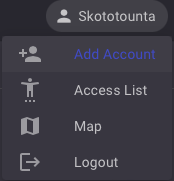
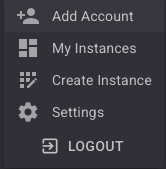
Refactor code structure for improved readability and maintainability

diff --git a/docs/Module/admin.md b/docs/Module/admin.md
@@ -1,11 +1,256 @@
 ---
 id: admin
-title: Admin
+title: Instance
 sidebar_position: 6
 ---
 
-:::caution Work in progress
-This page is under construction. Check back soon for full documentation.
+## Overview
 
-For questions or suggestions, open an issue on the [GitHub repository](https://github.com/pfh59/eve-whmapper-docs).
+An **instance** is your isolated WHMapper environment. It groups maps, administrators, and access rules under a single owner (a character, corporation, or alliance). Every user who wants to use WHMapper must belong to at least one instance — either by creating their own or by being granted access to an existing one.
+
+---
+
+## No Access
+
+When you log in for the first time and your character, corporation, or alliance has not yet been granted access to any instance, WHMapper shows the following screen:
+
+![No access screen — you don't belong to any instance yet](../assets/img/instance/no_access.png)
+
+From here you can either:
+
+- **Create an instance** — become the administrator of your own environment.
+- **Ask an instance administrator** to grant you access.
+
+---
+
+## Creating an Instance
+
+Click **CREATE AN INSTANCE** to open the registration dialog.
+
+![Instance registration form](../assets/img/instance/create_instance_form.png)
+
+Fill in the fields:
+
+| Field | Required | Description |
+|---|---|---|
+| **Instance Name** | Yes | A friendly name (e.g. *My Corp Mapper*). |
+| **Description** | No | An optional description of the instance. |
+| **Instance Access Type** | Yes | Defines who owns the instance — see below. |
+
+### Instance Access Type
+
+The access type determines the owner entity of the instance. The dropdown lists all entities linked to your authenticated character:
+
+![Access type dropdown showing Personal and Corporation options](../assets/img/instance/create_instance_access_type.png)
+
+| Option | Meaning |
+|---|---|
+| **Personal (Just me)** | The instance is owned by your character. |
+| **Corporation** | The instance is owned by your corporation. |
+| **Alliance** | The instance is owned by your alliance. |
+
+Once the form is valid, click **CREATE INSTANCE**. You become the administrator of the new instance.
+
+:::info What you get as creator
+- Your own isolated mapping environment
+- Full admin control over maps and access
+- Ability to create and manage multiple maps
+- Per-map access control to restrict who can see each map
+- Ability to add other administrators
+- Control over who can access your instance
 :::
+
+---
+
+## After Creation — No Map Available
+
+Immediately after creating an instance, WHMapper has no map to display yet. You will see:
+
+![Mapper showing "No map available" without error](../assets/img/instance/no_map.png)
+
+This is expected — you need to add at least one map to your instance before the mapper becomes usable. See [Adding a Map](#adding-a-map) below.
+
+---
+
+## My Instances
+
+Access your instances at any time via the user menu:
+
+![User menu with My Instances, Create Instance, Settings, and Logout options](../assets/img/instance/menu.png)
+
+Click **My Instances** to open the instances panel, which lists every instance you are associated with:
+
+![My Instances panel listing MyInstance with 0 Maps and 1 Admin](../assets/img/instance/my_instances.png)
+
+Each entry shows:
+- The instance name and owner character
+- The description
+- The number of maps and administrators
+- A **MANAGE** link (visible only to administrators)
+
+To create another instance from this panel, click **+ CREATE NEW INSTANCE**.
+
+---
+
+## Instance Administration
+
+Click **MANAGE** on any instance you administer to open the **Instance Administration** panel:
+
+![Instance Administration panel — empty Maps section, Skotounta as Owner admin, and one Access Control entry](../assets/img/instance/instance_admin_empty.png)
+
+The panel has three sections:
+
+| Section | Description |
+|---|---|
+| **Maps** | Maps belonging to this instance. |
+| **Admins** | Users with administrator rights on this instance. |
+| **Access Control** | Characters, corporations, or alliances granted access. |
+
+At the top you can **EDIT** the instance name/description or **DELETE** the instance entirely.
+
+:::warning
+Only administrators of an instance can see the **MANAGE** option and access this panel.
+:::
+
+---
+
+## Managing Instance Access
+
+The **Access Control** section defines who can access the instance. By default, only the creator's character is listed.
+
+To grant access to a new entity, click **+ ADD ACCESS**:
+
+![Add Access dialog — search field with "les deux mous" typed, showing Corporation result](../assets/img/instance/add_access.png)
+
+Search by character name, corporation name, or alliance name. Select the result and click **GRANT ACCESS**.
+
+A confirmation toast appears:
+
+![Success toasts: "Granted access to Les deux mousquetaires" and "You have been granted access to an instance — new maps are now available"](../assets/img/instance/access_granted.png)
+
+:::tip
+When access is granted to a corporation or alliance, all members of that entity gain access to the instance. Individual character entries can be used for finer-grained control.
+:::
+
+To revoke access, click the delete icon on the corresponding row.
+
+---
+
+## Adding Administrators
+
+In the **Admins** section, click **+ ADD** to promote another character to administrator. Administrators can manage maps, access control, and instance settings.
+
+The creator of the instance always appears as **Owner** and cannot be removed from the admin list.
+
+---
+
+## Editing an Instance
+
+Click **EDIT** in the Instance Administration panel to modify the instance name or description:
+
+![Edit Instance dialog with Name and Description fields](../assets/img/instance/edit_instance.png)
+
+Click **SAVE** to apply the changes or **CANCEL** to discard them.
+
+---
+
+## Adding a Map
+
+In the **Maps** section, click **+ ADD**. The *Add Map* dialog appears:
+
+![Add Map dialog — empty name field, CREATE button disabled](../assets/img/instance/add_map_empty.png)
+
+Type a name for the map. The **CREATE** button becomes active once a name is entered:
+
+![Add Map dialog — "My Map" entered, CREATE button enabled](../assets/img/instance/add_map_ready.png)
+
+Click **CREATE**. The map is added to the instance:
+
+![Instance Administration panel — Maps section now shows "My Map" with edit and delete icons](../assets/img/instance/instance_admin_with_map.png)
+
+You can repeat this process to add as many maps as needed. To add a second map, click **+ ADD** again, enter the new name, and click **CREATE**:
+
+![Add Map dialog — "My MAP2" entered, CREATE button enabled](../assets/img/instance/add_map_second.png)
+
+---
+
+## Multi-Map Management
+
+An instance can contain multiple maps. All users with access to the instance can view all maps by default.
+
+Each map appears as its own tab in the mapper interface, allowing users to switch between maps without leaving the application:
+
+![Mapper tab bar showing MY MAP and MY MAP2 tabs](../assets/img/instance/map_tabs.png)
+
+The **Maps** section of the Instance Administration panel displays the total number of maps and lists each one with its action buttons:
+
+![Maps section showing Maps (2) — My Map and My MAP2 with padlock badge](../assets/img/instance/maps_list_multiple.png)
+
+A padlock badge on a map entry indicates that access restrictions have been applied to that map (the number shows how many access entries are configured).
+
+:::warning Tracker only works on the active map
+The **tracking system** (automatic chain update, signature sync) operates exclusively on the **active map** — the tab currently selected in the mapper. Switching to a different tab changes which map receives live updates. Make sure all scouts and mappers are on the same active map.
+:::
+
+---
+
+## Map Access Control
+
+Each map can have its own access restrictions, independent of the instance-level access control. By default, every user with access to the instance can view every map.
+
+### Map Action Buttons
+
+In the **Maps** section of the Instance Administration panel, each map row shows two icons on the right:
+
+![Map row showing the blue shield (Manage Access) and red trash (Delete Map) icons](../assets/img/instance/map_row_icons.png)
+
+- **Blue shield icon** — opens the Map Access Control dialog for that map.
+- **Red trash icon** — deletes the map.
+
+Hovering over each icon shows its tooltip:
+
+![Map row with red trash icon hovered — Delete Map tooltip visible](../assets/img/instance/map_delete_tooltip.png)
+
+![Map row with blue shield icon hovered — Manage Access tooltip visible](../assets/img/instance/map_manage_access_tooltip.png)
+
+### Default State — No Restrictions
+
+When no access entries have been added, the dialog shows a blue **No restrictions** banner:
+
+![Map Access Control dialog — No restrictions banner, with Skototounta and Les deux mousquetaires listed as candidates to add](../assets/img/instance/map_access_no_restrictions.png)
+
+> **No restrictions:** All users with instance access can view this map. Add an access entry below to restrict who can access this map.
+
+The lower section lists all entities that currently have instance-level access. Click **+ ADD** next to any entry to restrict the map to that entity.
+
+### Restricted State
+
+Once at least one access entry is added, the dialog switches to a yellow **Restricted access** banner:
+
+![Map Access Control dialog — Restricted access banner, Skototounta listed in Current Access Entries with delete action](../assets/img/instance/map_access_restricted.png)
+
+> **Restricted access:** Only the entities listed below can access this map. Instance administrators always have access.
+
+| Column | Description |
+|---|---|
+| **Type** | Whether the entry is a Character, Corporation, or Alliance. |
+| **Entity Name** | The name of the entity granted access. |
+| **Actions** | Red trash icon to remove the entry. |
+
+To remove all restrictions at once and make the map public to the instance again, click the **REMOVE ALL RESTRICTIONS (MAKE PUBLIC TO INSTANCE)** button.
+
+:::info Instance admins always have access
+Regardless of per-map restrictions, **instance administrators** always retain access to all maps in their instance.
+:::
+
+---
+
+## Multi-Instance Access
+
+A user can belong to multiple instances simultaneously — either as a direct member, through their corporation, or through their alliance. In that case, WHMapper aggregates all maps from all accessible instances and displays them as tabs in a single view.
+
+The maps visible to you depend on two levels of rules:
+1. **Instance-level access** — you must be granted access to the instance.
+2. **Per-map access** — if a map has restrictions configured, only the listed entities can open it, even if they have instance access.
+
+Instance administrators always retain full access to all maps in their own instance, regardless of per-map restrictions.

diff --git a/docs/Module/authenticate.md b/docs/Module/authenticate.md
@@ -4,60 +4,48 @@ title: Authenticate
 sidebar_position: 1
 ---
 
-EVE Wormhole Mapper uses your EVE Online credentials via CCP's Single Sign-On (SSO). This page explains how to authenticate and manage characters within the mapper.
+EVE Wormhole Mapper authenticates using your EVE Online account via CCP's Single Sign-On (SSO). Your password is never stored — only a secure CCP-issued token is used.
 
-## Logging into EVE Wormhole Mapper
+## Login Flow
 
-1. **Access the Account Settings**
-
-   Select the **ACCOUNT** button on the main interface to initiate the authentication flow.
+1. **Open Account Settings** — click the **ACCOUNT** button on the main interface.
 
    ![Main interface showing the ACCOUNT button](../assets/img/authenticate/account_btn.png)
 
-2. **Initiate Login**
-
-   Click the **Login** button. You are redirected to the EVE Online SSO login page.
+2. **Initiate Login** — click **Login** to be redirected to the CCP SSO page.
 
    ![Login button to initiate SSO authentication](../assets/img/authenticate/login_btn.png)
 
-3. **Enter CCP Credentials**
-
-   Input your CCP credentials. Your password is never stored by the application — authentication uses CCP's secure token-based system.
+3. **Enter CCP Credentials** — input your CCP username and password.
 
    ![CCP SSO credential entry page](../assets/img/authenticate/ccp_sso.png)
 
-4. **Select Your Character**
-
-   Choose the character you want to use and verify that the required CCP access rights are granted.
+4. **Select a Character** — choose which character to use.
 
    ![CCP character selection list](../assets/img/authenticate/ccp_characters.png)
 
-5. **Authorize the Application**
-
-   Review and approve the required scopes to allow the mapper to access data associated with your character.
+5. **Authorize Scopes** — review and approve the required access rights.
 
    ![CCP scope authorization screen](../assets/img/authenticate/ccp_authorization.png)
 
-## Entering EVE Wormhole Mapper
+## After Login
 
-### Authorized Access
+Once CCP authentication succeeds, WHMapper checks your instance membership:
 
-If your character is authorized, the first accessible map displays automatically after login.
+- **You belong to an instance** — the first accessible map loads automatically.
 
-![Default map displayed after successful authorized login](../assets/img/default_map.png)
+  ![Default map displayed after successful authorized login](../assets/img/default_map.png)
 
-### Unauthorized Access
+- **You don't belong to any instance** — the *No Instance Access* screen is shown. You can create your own instance or ask an administrator to grant you access.
 
-If the character lacks permissions, a notification appears indicating unauthorized access. Contact your administrator to request access.
+  Refer to the **[Instance](./admin.md)** page for the full walkthrough.
 
-![Notification message indicating unauthorized access](../assets/img/authenticate/unauthorized.png)
+## Multiple Characters
 
-## Adding Multiple Characters
-
-You can add multiple EVE characters under the same map — even if their access is unauthorized. Use the **Add Account** button to link each character individually.
+You can link several EVE characters to the same session using the **Add Account** button.
 
 ![Add Account button to link an additional character](../assets/img/authenticate/add_account_btn.png)
 
-All characters appear in the same tab interface. The currently active character — used for all actions in WHMapper — is highlighted with a white circle.
+All characters appear in the same tab interface. The active character — used for all mapper actions — is highlighted with a white circle.
 
 ![Multi-character account tab view](../assets/img/authenticate/multi_account.png)
